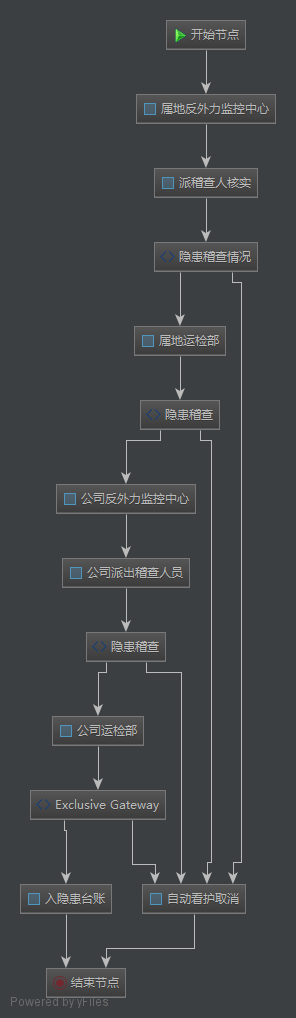
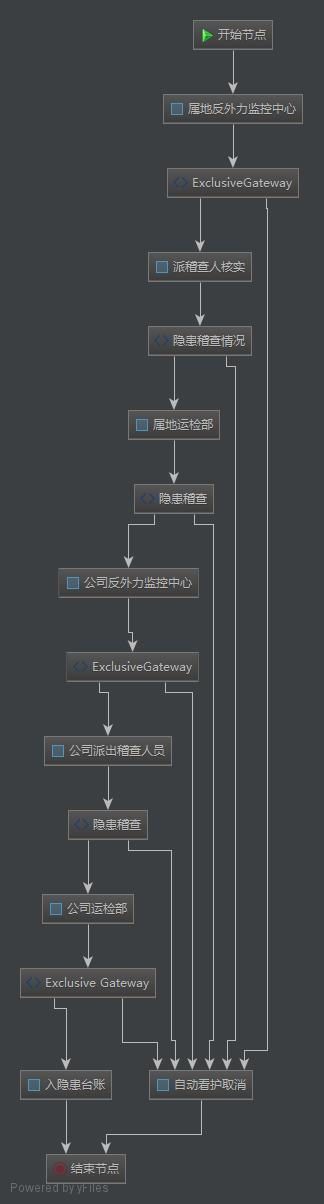
监听器注入问题解决

Changed region(s): [[0.0304, 0.0, 0.9426, 1.0]]

diff --git a/monitor-server/src/main/java/com/rzt/activiti/service/impl/ProServiceImpl.java b/monitor-server/src/main/java/com/rzt/activiti/service/impl/ProServiceImpl.java
@@ -5,14 +5,11 @@ import com.rzt.entity.CheckResult;
 import com.rzt.repository.CheckResultRepository;
 import com.rzt.service.CurdService;
 import com.rzt.util.WebApiResponse;
-import org.activiti.engine.RepositoryService;
-import org.activiti.engine.RuntimeService;
-import org.activiti.engine.TaskService;
+import org.activiti.engine.*;
+import org.activiti.engine.history.HistoricActivityInstance;
 import org.activiti.engine.repository.ProcessDefinition;
 import org.activiti.engine.repository.ProcessDefinitionQuery;
 import org.activiti.engine.runtime.ProcessInstance;
-import org.activiti.engine.task.Task;
-import org.activiti.engine.task.TaskQuery;
 import org.slf4j.Logger;
 import org.slf4j.LoggerFactory;
 import org.springframework.beans.factory.annotation.Autowired;
@@ -34,6 +31,9 @@ import java.util.Map;
 @Service
 public class ProServiceImpl  extends CurdService<CheckResult, CheckResultRepository> implements ActivitiService {
 
+
+    @Autowired
+    private ProcessEngine processEngine;
     @Autowired
     private TaskService taskService;
     @Autowired
@@ -154,12 +154,14 @@ public class ProServiceImpl  extends CurdService<CheckResult, CheckResultReposit
            Pageable pageable = new PageRequest(page, size, null);
            ArrayList<String> strings = new ArrayList<>();
            strings.add(userName);
-           String sql = "SELECT y.*,h.TEXT_,t.ID_ as actaskid,t.PROC_INST_ID_,t.ASSIGNEE_," +
-                  "  (SELECT v.TEXT_ FROM ACT_HI_VARINST v WHERE v.PROC_INST_ID_ = h.PROC_INST_ID_ AND v.NAME_ = 'info') as info," +
-                  "  (SELECT u.REALNAME FROM ACT_HI_VARINST v LEFT JOIN RZTSYSUSER u ON u.ID = v.TEXT_ WHERE v.PROC_INST_ID_ = h.PROC_INST_ID_ AND v.NAME_ = 'userName' ) as squsername," +
-                  "  (SELECT u.REALNAME FROM RZTSYSUSER u WHERE u.ID = y.TBRID) as tbrName," +
-                  "  (SELECT u.PHONE FROM RZTSYSUSER u WHERE u.ID = y.TBRID) as phone" +
-                  "   FROM ACT_RU_TASK t LEFT JOIN ACT_HI_VARINST h ON t.PROC_INST_ID_ = h.PROC_INST_ID_" +
+           String sql = "SELECT y.ID,y.SECTION,y.CREATE_TIME,y.TDYW_ORG,y.TDWX_ORG,y.YHLB,y.YHMS,y.YHJB,y.YHJB1,h.TEXT_,t.ID_ as actaskid,t.PROC_INST_ID_,t.ASSIGNEE_," +
+                   "    (SELECT DISTINCT l.LINE_NAME1 FROM CM_LINE_SECTION l WHERE l.LINE_ID = y.LINE_ID) as linename1,"+
+                  "  (SELECT DISTINCT v.TEXT_ FROM ACT_HI_VARINST v WHERE v.PROC_INST_ID_ = h.PROC_INST_ID_ AND v.NAME_ = 'info') as info," +
+                   "    (SELECT DISTINCT v.TEXT_ FROM ACT_HI_VARINST v WHERE v.PROC_INST_ID_ = h.PROC_INST_ID_ AND v.NAME_ = 'khid') as khid,"+
+                  "  (SELECT DISTINCT u.REALNAME FROM ACT_HI_VARINST v LEFT JOIN RZTSYSUSER u ON u.ID = v.TEXT_ WHERE v.PROC_INST_ID_ = h.PROC_INST_ID_ AND v.NAME_ = 'userName' ) as squsername," +
+                  "  (SELECT DISTINCT u.REALNAME FROM RZTSYSUSER u WHERE u.ID = y.TBRID) as tbrName," +
+                  "  (SELECT DISTINCT u.PHONE FROM RZTSYSUSER u WHERE u.ID = y.TBRID) as phone" +
+                  "   FROM ACT_RU_TASK t LEFT JOIN ACT_RU_VARIABLE h ON t.PROC_INST_ID_ = h.PROC_INST_ID_" +
                   "  LEFT JOIN XS_SB_YH y ON y.ID = h.TEXT_" +
                   "   WHERE h.NAME_ = 'YHID' AND t.PROC_DEF_ID_ LIKE 'wtsh%' AND ASSIGNEE_ = ?"+strings.size();
 
@@ -271,6 +273,29 @@ public class ProServiceImpl  extends CurdService<CheckResult, CheckResultReposit
     }
 
 
-
+    public WebApiResponse historyActInstanceList(String assignee,Integer page,Integer size){
+        ArrayList<String> strings = new ArrayList<>();
+        Page<Map<String, Object>> maps = null;
+        strings.add(assignee);
+        String sql = "SELECT y.ID,y.SECTION,y.CREATE_TIME,y.TDYW_ORG,y.TDWX_ORG,y.YHLB,y.YHMS,y.YHJB,y.YHJB1,h.TEXT_,t.ID_ as actaskid,t.PROC_INST_ID_,t.ASSIGNEE_," +
+              "  (SELECT DISTINCT l.LINE_NAME1 FROM CM_LINE_SECTION l WHERE l.LINE_ID = y.LINE_ID) as linename1,t.END_TIME_,t.START_TIME_," +
+              "  (SELECT DISTINCT  v.TEXT_ FROM ACT_HI_VARINST v WHERE v.PROC_INST_ID_ = h.PROC_INST_ID_ AND v.NAME_ = 'info') as info," +
+              "  (SELECT DISTINCT  v.TEXT_ FROM ACT_HI_VARINST v WHERE v.PROC_INST_ID_ = h.PROC_INST_ID_ AND v.NAME_ = 'khid') as khid," +
+              "  (SELECT DISTINCT  u.REALNAME FROM ACT_HI_VARINST v LEFT JOIN RZTSYSUSER u ON u.ID = v.TEXT_ WHERE v.PROC_INST_ID_ = h.PROC_INST_ID_ AND v.NAME_ = 'userName' ) as squsername," +
+              "  (SELECT DISTINCT  u.REALNAME FROM RZTSYSUSER u WHERE u.ID = y.TBRID) as tbrName," +
+              "  (SELECT DISTINCT  u.PHONE FROM RZTSYSUSER u WHERE u.ID = y.TBRID) as phone" +
+              "  FROM ACT_HI_ACTINST t LEFT JOIN ACT_RU_VARIABLE h ON t.PROC_INST_ID_ = h.PROC_INST_ID_" +
+              "  LEFT JOIN XS_SB_YH y ON y.ID = h.TEXT_" +
+              "  WHERE h.NAME_ = 'YHID' AND t.PROC_DEF_ID_ LIKE 'wtsh%' AND ASSIGNEE_ = ?"+strings.size()+" AND t.END_TIME_ IS NOT NULL ";
+        try {
+            Pageable pageable = new PageRequest(page, size, null);
+             maps = this.execSqlPage(pageable, sql, strings);
+             LOGGER.info("历史记录查询成功");
+        }catch (Exception e){
+                LOGGER.error("查询历史记录失败"+e.getMessage());
+            return WebApiResponse.erro("查询历史记录失败"+e.getMessage());
+        }
+        return WebApiResponse.success(maps);
+    }
 
 }

diff --git a/monitor-server/src/main/java/com/rzt/activiti/controller/ProController.java b/monitor-server/src/main/java/com/rzt/activiti/controller/ProController.java
@@ -84,6 +84,8 @@ public class ProController {
     @GetMapping("/proClick")
     public WebApiResponse chuLi(String taskId,String YHID,String flag,String isKH,String info,String proId,String userName){
       try {
+
+
           //将稽查和看护任务派发     完成后拿到看护任务的id  进入下一个节点 稽查节点
           String khid = "";
           //需要派发稽查任务
@@ -95,16 +97,18 @@ public class ProController {
               if(null != YHID && !"".equals(YHID)){
                   Object data = nurseTaskService.saveLsCycle(YHID).getData();
                   System.out.println("++++++++++++++++"+data);
+                  //生成看护任务成功  添加看护id到流程
+                  map.put("khid",khid);
               }
               System.out.println("看护任务派发---------------------------------------");
           }
 
 
           map.put("YHID",YHID);
-          map.put("khid",khid);
           map.put("flag",flag);
           map.put("info",info);
           proService.complete(taskId,map);
+
           //获取节点前进后的id   用流程实例id做条件
           String id = proService.findIdByProId(proId);
           //测试稽查
@@ -124,6 +128,10 @@ public class ProController {
         return WebApiResponse.success("进入下一节点");
 
     }
+
+
+
+
 
     /**
      * 稽查任务回调   回调时需要传递当前任务id  和flag  隐患id
@@ -179,6 +187,11 @@ public class ProController {
         proService.deploy();
         return WebApiResponse.success("");
 
+    }
+
+    @GetMapping("/history")
+    public WebApiResponse gethi(String assignee,Integer page,Integer size){
+       return proService.historyActInstanceList(assignee, page, size);
     }
 
 

diff --git a/monitor-server/src/main/java/com/rzt/activiti/listener/ProListener.java b/monitor-server/src/main/java/com/rzt/activiti/listener/ProListener.java
@@ -1,13 +1,24 @@
 package com.rzt.activiti.listener;
 
+import com.rzt.activiti.service.impl.ProServiceImpl;
+import com.rzt.utils.SpringUtil;
 import org.activiti.engine.delegate.DelegateTask;
 import org.activiti.engine.delegate.TaskListener;
+import org.springframework.beans.BeansException;
+import org.springframework.beans.factory.annotation.Autowired;
+import org.springframework.context.ApplicationContext;
+import org.springframework.context.ApplicationContextAware;
+import org.springframework.stereotype.Component;
+
+import javax.annotation.Resource;
 
 /**
  * 李成阳
  * 2018/1/17
  */
+@Component
 public class ProListener implements TaskListener {
+
 
 
     /**
@@ -16,7 +27,23 @@ public class ProListener implements TaskListener {
      */
     @Override
     public void notify(DelegateTask delegateTask) {
-        System.out.println("进入节点监听");
+        ProServiceImpl proServiceImpl = (ProServiceImpl) SpringUtil.getObject("proServiceImpl");
+
+        //查询当前流程是否由看护任务
+
+        String idByProId = proServiceImpl.findIdByProId(delegateTask.getProcessInstanceId());
+        String khid = (String) proServiceImpl.checkTask(idByProId, "khid");
+        //取消看护任务
+        if(null != khid && !"".equals(khid)){
+
+            System.out.println("取消看护任务"+khid);
+
+        }
+        System.out.println("进入节点监听"+khid);
+        //结束流程
+        proServiceImpl.complete(delegateTask.getId(),null);
         System.out.println(delegateTask);
     }
+
+
 }

diff --git a/monitor-server/src/main/java/com/rzt/activiti/listener/ProTZListener.java b/monitor-server/src/main/java/com/rzt/activiti/listener/ProTZListener.java
@@ -1,0 +1,40 @@
+package com.rzt.activiti.listener;
+
+import com.rzt.activiti.service.impl.ProServiceImpl;
+import com.rzt.utils.SpringUtil;
+import org.activiti.engine.delegate.DelegateTask;
+import org.activiti.engine.delegate.TaskListener;
+import org.springframework.beans.factory.annotation.Autowired;
+
+/**
+ * 李成阳
+ * 2018/1/21
+ */
+public class ProTZListener  implements TaskListener {
+
+
+    /**
+     * 监听当前看护取消节点   当监听到取消看护任务创建时   写入逻辑取消看护   当前节点继续前进 进入结束节点
+     * @param delegateTask
+     */
+    @Override
+    public void notify(DelegateTask delegateTask) {
+        ProServiceImpl proService = (ProServiceImpl) SpringUtil.getObject("proServiceImpl");
+        String idByProId = proService.findIdByProId(delegateTask.getProcessInstanceId());
+        //查询当前流程是否由看护任务
+        String YHID = (String) proService.checkTask(idByProId, "YHID");
+        String khid = (String) proService.checkTask(idByProId, "khid");
+        //变更看护任务
+        if(null != khid && !"".equals(khid)){
+            System.out.println("变更看护任务"+khid);
+        }
+        //添加隐患台账
+        if(null != YHID && !"".equals(YHID)){
+            System.out.println("添加隐患台账"+YHID);
+        }
+        System.out.println("进入节点监听  隐患台账节点"+YHID);
+        //结束流程
+        proService.complete(idByProId,null);
+        System.out.println(delegateTask);
+    }
+}
